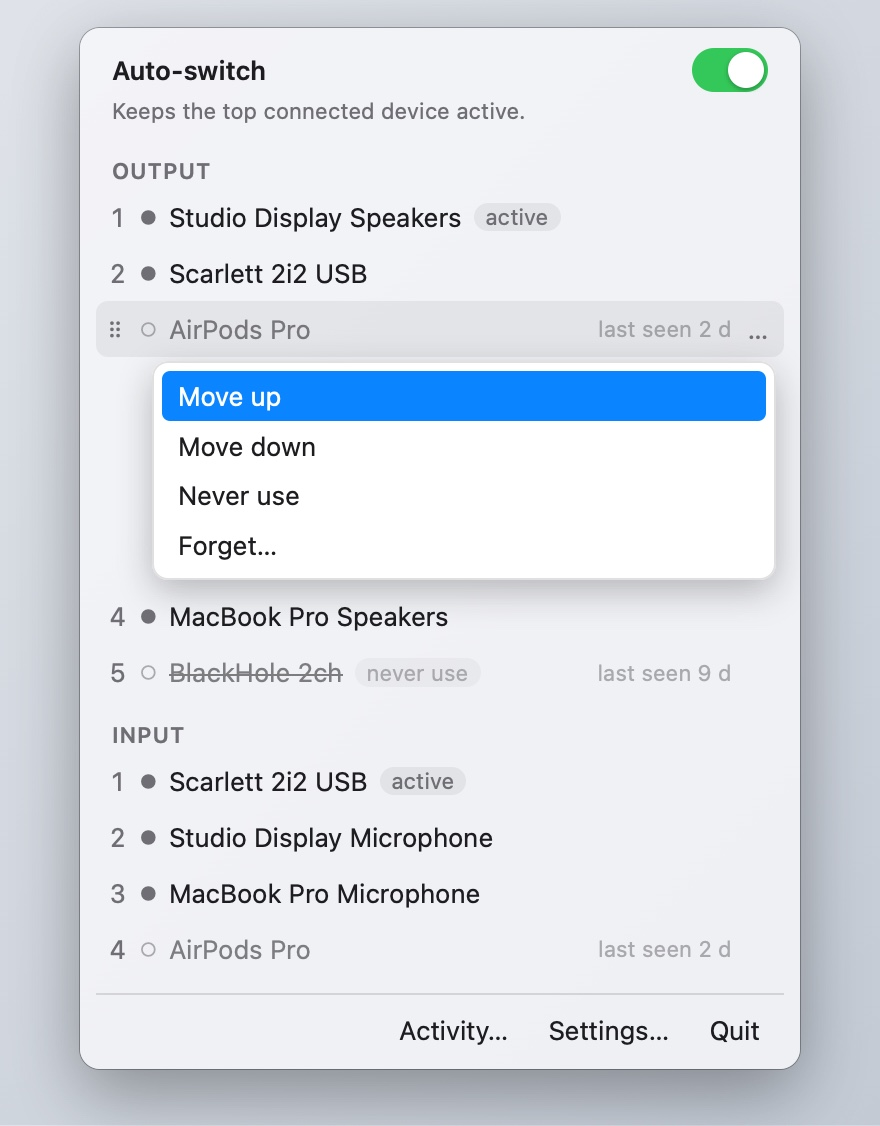
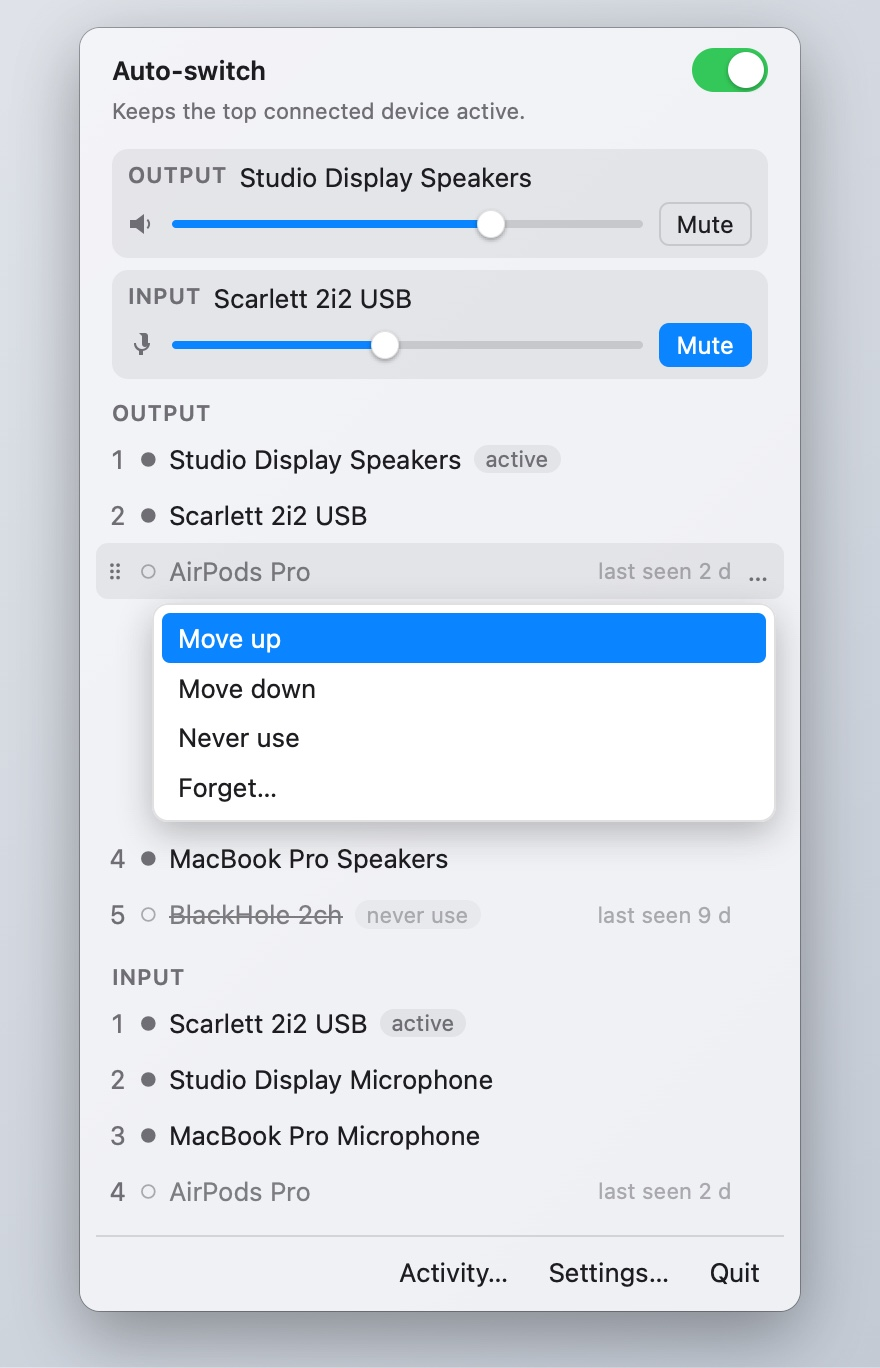
docs: volume and mute usage, ADR 0013, QA rows and changeset
Claude-Session: https://claude.ai/code/session_012ZCdCJDnGe94t6np1vmDmB

diff --git a/site/scripts/screens/mock.js b/site/scripts/screens/mock.js
@@ -24,6 +24,8 @@
     debug: false,
     paused: paused ? { role: 'output', key: 'airpods', name: 'AirPods Pro' } : null,
     output, input, errors: { output: null, input: null }, readOnly: false,
+    levels: { output: { volume: 0.69, muted: false }, input: { volume: 0.45, muted: true } },
+    levelErrors: { output: null, input: null },
     update: paused ? '0.1.3' : null,
     notifySwitches: true,
   };

diff --git a/docs/adr/0013-level-listeners.md b/docs/adr/0013-level-listeners.md
@@ -1,0 +1,80 @@
+# 0013. Level listeners
+
+- Status: Accepted
+- Date: 2026-11-25
+- Amends: [0006](0006-engine-threading-and-coreaudio-binding.md) ("four listeners, all on the system object" and "No `AudioObjectID` outlives one call")
+- Spec: `docs/superpowers/specs/2026-11-24-usher-v2-design.md` §6.2, §6.3
+
+## Context
+
+M7 adds a volume slider and a mute button for the active output and input. The strip must follow
+changes made elsewhere (volume keys, Control Center), so usher needs listeners for volume and mute on
+the current default device of each role. ADR 0006 allows four listeners, all on the system object, and
+forbids any `AudioObjectID` that outlives one call. A level listener lives on a device, so both rules
+need an exception. A listener removed from a device that has vanished also returns an error.
+
+## Options
+
+1. **Poll the levels.** No new listeners and no exception to 0006. The slider lags, and polling
+   while the panel is closed wastes wakeups.
+2. **Level listeners on the default device, with a narrow `AudioObjectID` exception.** Chosen. The slider
+   follows live, and the exception has one holder.
+3. **Listeners on every device.** Many registrations, and most of them would never be read.
+
+## Decision
+
+Option 2. Five rules for the level listeners (spec §6.2):
+
+1. The level watch holds the watched device's `AudioObjectID` from registration to removal. Nothing
+   else holds one; every other call still translates the UID again.
+2. When the role's default device changes, the old listeners are removed first, then new ones are added
+   on the device that is now the default.
+3. A failed remove (the device vanished) is logged at `debug` and ignored.
+4. The existing generation counter drops callbacks from an older registration.
+5. After registering, the engine re-reads the role's levels once, so a change between removal and
+   registration is not lost.
+
+A listener sends `AudioEvent::LevelChanged(role)`. The engine reads that role's levels and emits the
+view at once, with no scan and no 150 ms window.
+
+Decisions the spec left open, or where this ADR departs from its text:
+
+1. **`VirtualMainVolume` goes through the AudioObject API.** A read-only probe on 2026-11-25 (macOS
+   27.2, built-in speaker and microphone) found `kAudioHardwareServiceDeviceProperty_VirtualMainVolume`
+   (`'vmvc'`, `0x766d7663`) on the main element. `AudioObjectHasProperty` and `IsPropertySettable`
+   were true, `AudioObjectGetPropertyData` succeeded, and adding and removing a listener block returned 0
+   in both output and input scope. No AudioToolbox `AudioHardwareService*` call is needed. The constant is
+   defined locally. The fallback is `kAudioDevicePropertyVolumeScalar` on element 0. Mute is
+   `kAudioDevicePropertyMute` on element 0. A property counts as a control only when present and settable.
+2. **Trait signatures differ from the spec.** `levels(role, key)` takes the key, as writes do, so the
+   strip's name and its levels always describe the same device. The spec form reads the live default,
+   which could show one device's name with another's volume for 150 ms. `default_key(role)` is added: it
+   is the live read behind `Refusal::Stale`. `watch_levels(role, Option<&key>)` moves the role's listeners.
+   `set_volume` and `set_mute` are as in the spec.
+3. **Re-watch after every reconcile pass, and separate gates.** The engine calls `watch_levels` after
+   every reconcile pass. It does nothing for the same `AudioObjectID` and nothing when unsubscribed. That
+   covers launch, `DefaultChanged`, `DevicesChanged` (including a same-UID replug) and rebind, without
+   tracking which event happened. Each role has its own `Gate`, so `watch_levels` bumps only that role's
+   gate and leaves the four system listeners alone. `subscribe`, `unsubscribe`, `rebind` and Drop clear the
+   level watch; the next reconcile adds it again.
+4. **Refusals live only in the reply.** `Event::Level` is refused `NotReady` before the first scan,
+   `Rebinding` during a rebind, and `Stale` when `key` is no longer the role's default (live read; a failed
+   read counts as `Stale`). The panel shows nothing for a refusal; the reply is logged at `debug` once per
+   drag. A failed write replies `Ok` and shows `Couldn't set volume: <error>` (or mute) under the strip
+   until the next successful write for that role or a change of that role's device. The engine re-reads the
+   role's levels after every write and emits only when they changed. A level write never marks the store
+   dirty, never schedules a reconcile and never changes which device is active.
+
+## Consequences
+
+- **The exception is narrow.** Only the level watch keeps an `AudioObjectID` across calls. If the device
+  vanishes, the remove fails, is logged and ignored, and the next reconcile registers on the new default.
+- **The slider can lag by one reconcile.** After a default change, the new device's listeners are added
+  after the reconcile pass, within the 150 ms window plus the scan. `Stale` stops a write in that gap.
+- **Some devices have no control.** HDMI displays and fixed-volume DACs show a disabled slider and
+  `No volume control`.
+- **Tray.** The menu-bar icon shows a dot while the active input is muted. Four template images cover
+  auto-switch on and off, with and without the dot.
+- **Not built.** Per-row sliders, shortcuts, remembered volumes, per-channel mute and balance (v2
+  non-goals, ADR 0011).
+- The Usage page, README and screenshots move with the UI (ADR 0010).

diff --git a/README.md b/README.md
@@ -30,4 +30,4 @@ Logs: `~/Library/Logs/com.cef62.usher/usher.log`; `USHER_LOG=debug` adds detail.
 
 ## Using usher
 
-Left-click the menu-bar icon to open the panel. It lists output and input devices in priority order. Drag a row, or focus it and press Alt+Up or Alt+Down, to reorder. Return promotes a row to the top. The `…` menu on each row moves it, stops it being used, or forgets a disconnected device. Right-click the icon for Auto-switch, Activity…, Settings…, Check for Updates… and Quit usher. Settings has Open at login, Notify when usher switches, Debug logging, Open Activity… and Show log in Finder. If usher has to correct the output (or the input) 3 times in 10 seconds, it turns Auto-switch off and the panel says `usher paused auto-switch: <device> kept taking <role>`; turn Auto-switch back on to resume. When usher switches a device by itself, macOS shows a notification (at most one per role every 10 s, and none in the first 10 s after launch or after the audio system restarts; never for a change you make in usher; turn it off with Notify when usher switches). Activity… opens a window with this session's last 200 entries and why, and a diagnostics report: Copy diagnostics puts it on the clipboard for a GitHub issue, without your name (any word of your account's names in a device name), full Bluetooth addresses or USB serials. A device you forget is removed from both lists.
+Left-click the menu-bar icon to open the panel. It lists output and input devices in priority order. Drag a row, or focus it and press Alt+Up or Alt+Down, to reorder. Return promotes a row to the top. The `…` menu on each row moves it, stops it being used, or forgets a disconnected device. Right-click the icon for Auto-switch, Activity…, Settings…, Check for Updates… and Quit usher. Settings has Open at login, Notify when usher switches, Debug logging, Open Activity… and Show log in Finder. If usher has to correct the output (or the input) 3 times in 10 seconds, it turns Auto-switch off and the panel says `usher paused auto-switch: <device> kept taking <role>`; turn Auto-switch back on to resume. When usher switches a device by itself, macOS shows a notification (at most one per role every 10 s, and none in the first 10 s after launch or after the audio system restarts; never for a change you make in usher; turn it off with Notify when usher switches). Activity… opens a window with this session's last 200 entries and why, and a diagnostics report: Copy diagnostics puts it on the clipboard for a GitHub issue, without your name (any word of your account's names in a device name), full Bluetooth addresses or USB serials. Under the Auto-switch header, the panel shows a volume slider and a Mute button for the active output and for the active input. They follow the volume keys and Control Center. A device with no volume control (an HDMI display, a fixed-volume DAC) shows a disabled slider and `No volume control`. Changing the volume or mute never changes which device is active. While the active input is muted, the menu-bar icon has a dot and its tooltip reads `usher: microphone muted`. A device you forget is removed from both lists.

diff --git a/docs/qa.md b/docs/qa.md
@@ -48,3 +48,9 @@ Run these on a real Mac with the checks below. Start usher with `USHER_LOG=debug
 | 41 | **Footer at 360 pt.** Turn Debug logging on and have an update pending. Open the panel. | The footer shows Debug, `Update to usher <version>…`, `Activity…`, `Settings…` and `Quit` in one row, or in a clean wrap, with nothing clipped. |
 | 42 | **Activity window.** Open it from the panel footer, the right-click menu (`Activity…`) and Settings › Troubleshooting (`Open Activity…`). | Each opens the same single window. New lines appear while it is open. It drags and resizes, and shows Liquid Glass in light and dark mode. |
 | 43 | **Quiet period.** Log in (or relaunch usher) with a slow Thunderbolt display or Bluetooth headset connecting. | No notification in the first 10 seconds. The Activity window has the entry. A change after 10 seconds notifies as usual. |
+| 44 | **Volume keys.** Press the volume keys with the panel open. | The output slider follows. |
+| 45 | **Drag the slider.** Drag the output slider. | The volume in Control Center follows, and the final value sticks. |
+| 46 | **Mute.** Mute and unmute the output and the input from the panel. | Control Center agrees. |
+| 47 | **Mic dot.** Mute the input. | The menu-bar dot appears, and the tooltip reads `usher: microphone muted`. Unmuting in System Settings removes it. |
+| 48 | **No volume control.** Use a device with no volume control (HDMI display or a fixed-volume DAC). | A disabled slider with `No volume control`. |
+| 49 | **Device change and restart.** Unplug the active headset while dragging, then run `sudo killall coreaudiod` and press the volume keys. | The new device's volume is untouched; after the restart the slider still follows the keys. |

diff --git a/docs/superpowers/plans/2026-11-23-usher-roadmap.md b/docs/superpowers/plans/2026-11-23-usher-roadmap.md
@@ -21,7 +21,7 @@ Spec: `docs/superpowers/specs/2026-11-24-usher-v2-design.md`. Scope: ADR 0011.
 | # | Milestone | Plan | Deliverable | Depends on |
 |---|---|---|---|---|
 | M6 | Activity | `2026-11-24-usher-m6-activity.md` | A notification when usher switches a device (on by default, with a setting), a session history in the Activity window, and diagnostics with Copy diagnostics, redacted for a public issue. Ships as 0.2.0. | v1 |
-| M7 | Volume and mute | to plan | Volume slider and mute for the active output and input in the panel, and a dot on the menu-bar icon while the input is muted. | M6 |
+| M7 | Volume and mute | `2026-11-25-usher-m7-volume.md` | Volume slider and mute for the active output and input in the panel, and a dot on the menu-bar icon while the input is muted. | M6 |
 | M8 | Bluetooth | to plan | Battery level of connected Bluetooth audio devices, and Connect and Disconnect for remembered ones. | M6 |
 
 ## Shared conventions (all plans)

diff --git a/docs/adr/README.md b/docs/adr/README.md
@@ -41,3 +41,4 @@ What gets easier, what gets harder, what we must now do.
 | [0009](0009-reconcile-waits-for-usb-verdicts.md) | Reconcile waits for unresolved USB verdicts (amends 0006) | Accepted |
 | [0010](0010-docs-site.md) | A docs site on GitHub Pages (departs from the v1 non-goal) | Accepted |
 | [0011](0011-v2-scope.md) | v2 scope: notices, history and diagnostics now; volume, mute and Bluetooth later | Accepted |
+| [0013](0013-level-listeners.md) | Level listeners on the default device (amends 0006) | Accepted |

diff --git a/docs/architecture/overview.md b/docs/architecture/overview.md
@@ -26,7 +26,7 @@ flowchart LR
   end
 
   subgraph app["src-tauri (usher)"]
-    ENG[Engine thread<br/>owns state]
+    ENG[Engine thread<br/>owns state + levels]
     STORE[Store<br/>atomic JSON]
     TRAYW[Tray]
     PW[Panel window]
@@ -42,7 +42,8 @@ flowchart LR
 
   CA -- property events --> LIS
   LIS -- Event via mpsc --> ENG
-  ENG -- enumerate / set default --> SYS
+  LIS -- AudioEvent::LevelChanged --> ENG
+  ENG -- enumerate / set default / levels --> SYS
   SYS --> CA
   SYS --> IOK
   ENG --> POL

diff --git a/.changeset/volume-and-mute.md b/.changeset/volume-and-mute.md
@@ -1,0 +1,5 @@
+---
+"usher": minor
+---
+
+Added volume and mute controls for the active output and input to the panel, and a dot on the menu-bar icon while the microphone is muted.
